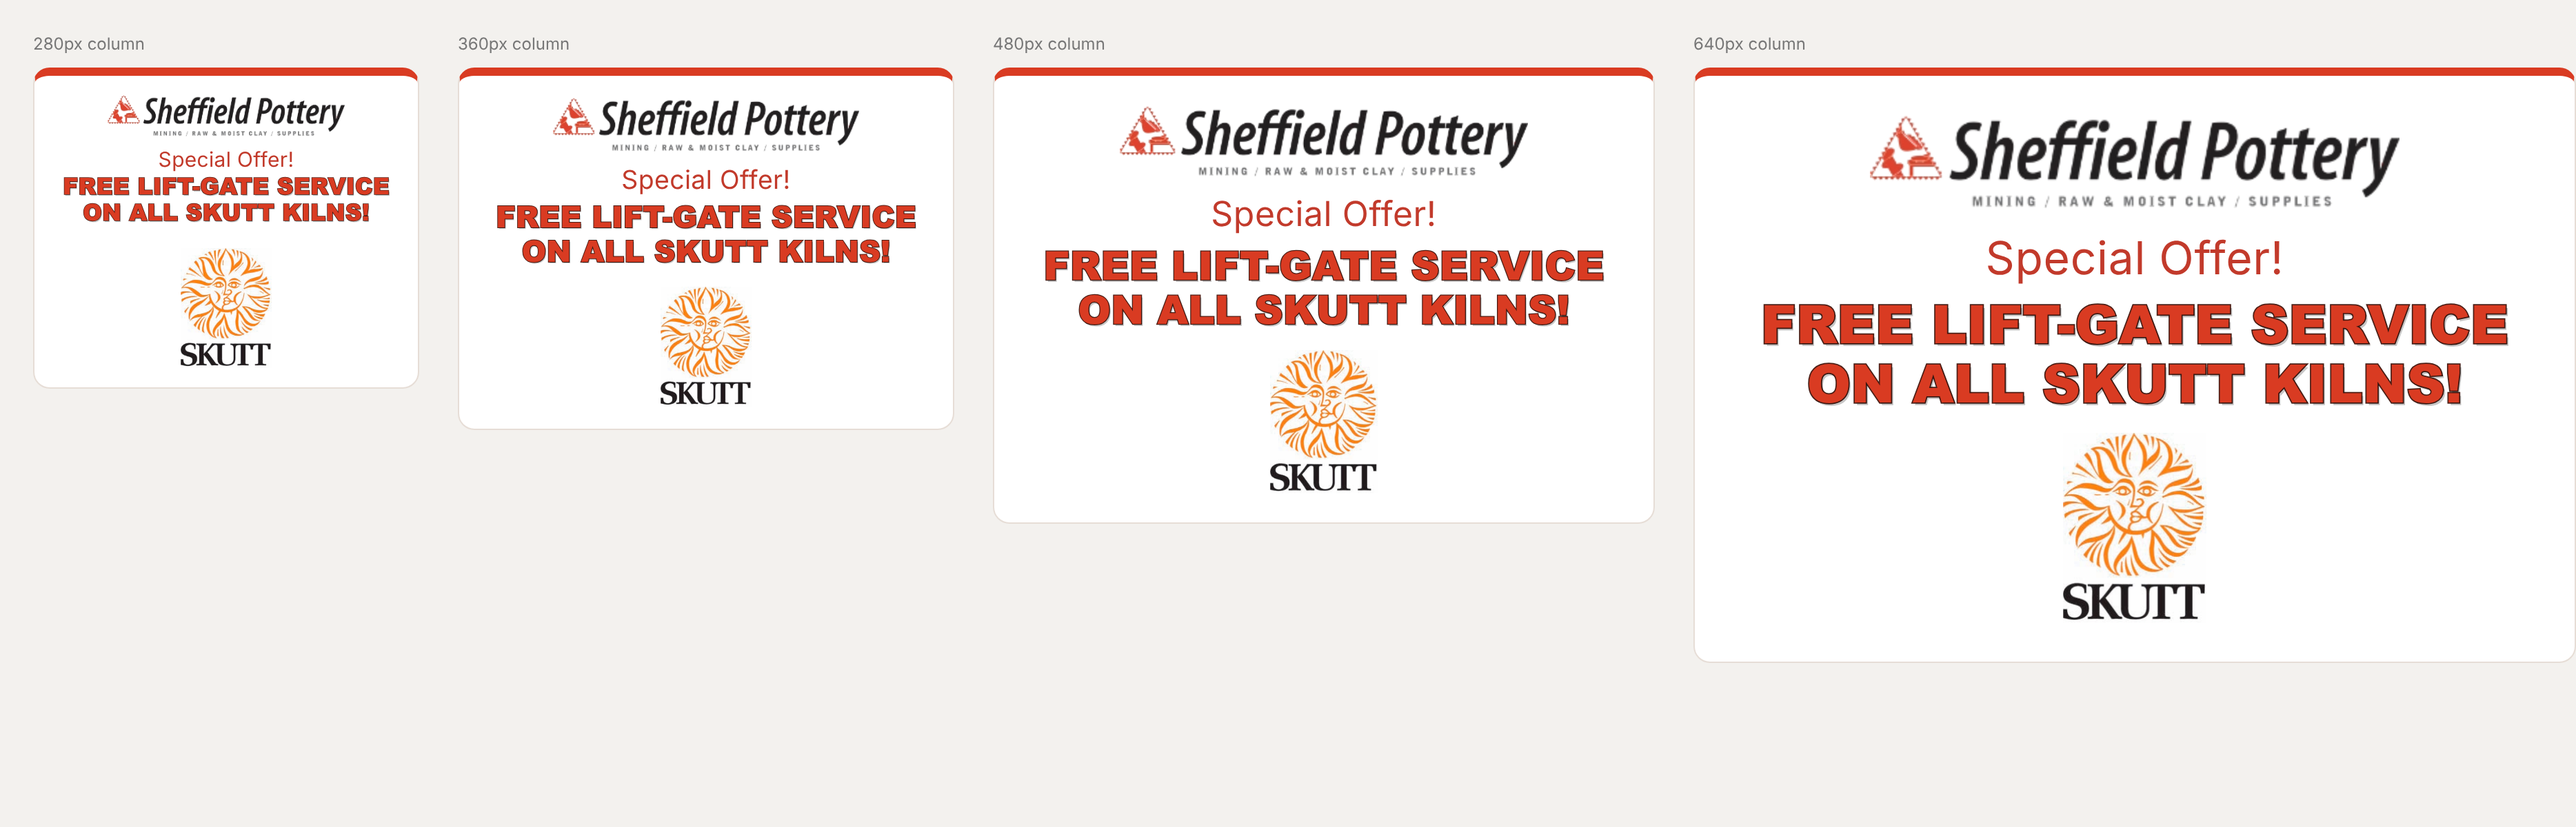
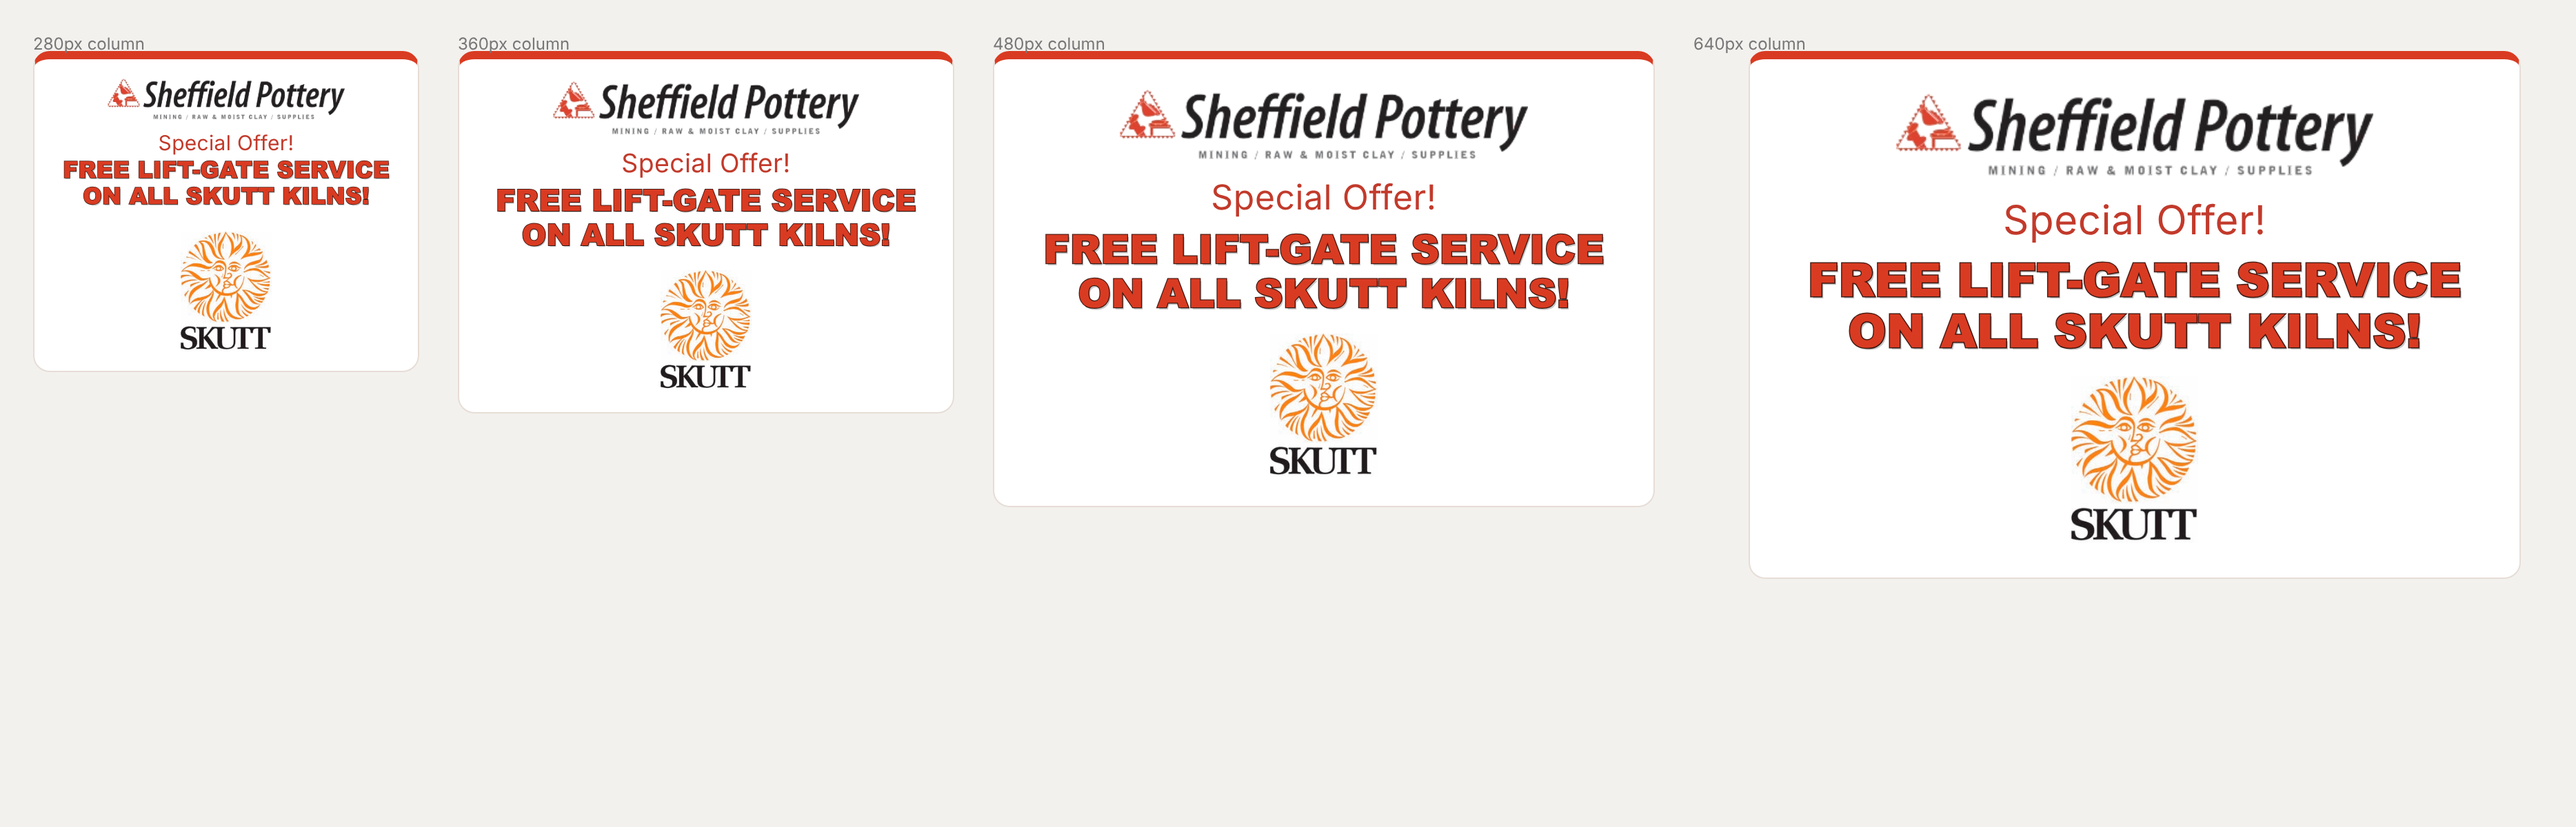
Make the lift-gate offer box valid inside any wrapper and link it to Skutt kilns
Use spans instead of div/p so it can sit inside existing <p> and <a>
wrappers in product descriptions, link the box to /collections/skutt-kilns
like the old graphic, cap it at 560px, and keep spaces between the text
pieces so stripped-HTML text (meta descriptions, feeds) reads cleanly.

Claude-Session: https://claude.ai/code/session_015Xa2d9vjjzMAh8d75TZMCL

Changed region(s): [[0.0, 0.0617, 1.0, 0.6167], [0.6831, 0.1233, 0.9936, 0.7708]]

diff --git a/snippets/skutt-free-liftgate-banner.html b/snippets/skutt-free-liftgate-banner.html
@@ -1,32 +1,16 @@
 <!--
   Sheffield Pottery: "Free lift-gate service on all Skutt kilns" offer box.
-  Scalable HTML replacement for skutt-kilns-sale-free-lift-gate.jpg.
+  Scalable HTML replacement for skutt-kilns-sale-free-lift-gate.jpg. This is the exact
+  markup used in the Skutt product descriptions.
 
-  Paste the whole block into a Shopify product description, page, or
-  Custom Liquid section using the editor's HTML ("<>") view.
+  Paste it into a Shopify product description, page, or Custom Liquid section using
+  the editor's HTML ("<>") view.
 
-  - Every style is inline, so theme CSS and the rich-text editor can't restyle it.
-  - Text sizes are tied to the width of the box itself (cqi units), so it scales the
-    same way in a narrow product column as it does full-width on a phone.
-    Older browsers fall back to the fixed px size written just before each clamp().
-  - To make it wider or narrower overall, change max-width on the first <div>.
+  - Built only from <a>/<span>/<img> with inline styles, so it is valid anywhere,
+    including inside a <p>, and theme CSS can't restyle it.
+  - Text sizes follow the width of the box itself (cqi units). Older browsers use the
+    fixed px size written just before each clamp().
+  - The whole box links to /collections/skutt-kilns. Change max-width on the <a> to
+    make it larger or smaller (currently 560px).
 -->
-<div style="container-type:inline-size;width:100%;max-width:640px;margin:24px auto;box-sizing:border-box;">
-  <div style="box-sizing:border-box;background:#ffffff;border:1px solid #e6ddd6;border-top:6px solid #d93b22;border-radius:12px;padding:20px 16px;padding:clamp(14px,4.5cqi,30px) clamp(12px,4.5cqi,30px);text-align:center;line-height:1.15;font-family:Arial,Helvetica,sans-serif;color:#2b2b2b;">
-
-    <img src="https://cdn.shopify.com/s/files/1/0677/5508/2050/files/logo.png?v=1679391841"
-         alt="Sheffield Pottery: Mining / Raw &amp; Moist Clay / Supplies"
-         width="384" height="67"
-         style="display:block;width:68%;max-width:384px;height:auto;margin:0 auto;border:0;">
-
-    <p style="margin:0.55em 0 0.2em;padding:0;font-family:'Trebuchet MS','Segoe UI',system-ui,-apple-system,Roboto,Arial,sans-serif;font-weight:400;font-style:normal;font-size:20px;font-size:clamp(15px,5.2cqi,33px);line-height:1.15;letter-spacing:0.01em;text-transform:none;color:#c23a2b;">Special Offer!</p>
-
-    <p style="margin:0;padding:0;font-family:'Arial Black',Gadget,system-ui,-apple-system,'Segoe UI',Roboto,Arial,sans-serif;font-weight:900;font-style:normal;font-size:22px;font-size:clamp(15px,6cqi,39px);line-height:1.12;letter-spacing:0;text-transform:uppercase;color:#d93b22;-webkit-text-stroke:0.045em #4a1e16;paint-order:stroke fill;text-shadow:0.04em 0.05em 0 rgba(0,0,0,0.22);">Free <span style="white-space:nowrap;">Lift-Gate</span> Service<br>on All Skutt Kilns!</p>
-
-    <img src="https://cdn.shopify.com/s/files/1/0677/5508/2050/files/skutt-kilns-web-logo.jpg?v=1680243671"
-         alt="Skutt Kilns"
-         width="207" height="273"
-         style="display:block;width:18%;min-width:66px;max-width:108px;height:auto;margin:0.9em auto 0;border:0;mix-blend-mode:multiply;">
-
-  </div>
-</div>
+<a href="/collections/skutt-kilns" style="display:block;container-type:inline-size;width:100%;max-width:560px;margin:12px auto 20px;padding:0;box-sizing:border-box;border:0;background:none;text-decoration:none;color:#2b2b2b;"><span style="display:block;box-sizing:border-box;background:#ffffff;border:1px solid #e6ddd6;border-top:6px solid #d93b22;border-radius:12px;padding:20px 16px;padding:clamp(14px,4.5cqi,30px) clamp(12px,4.5cqi,30px);text-align:center;line-height:1.15;font-family:Arial,Helvetica,sans-serif;font-weight:400;font-style:normal;letter-spacing:normal;text-transform:none;text-decoration:none;color:#2b2b2b;"><img src="https://cdn.shopify.com/s/files/1/0677/5508/2050/files/logo.png?v=1679391841" alt="Sheffield Pottery" width="384" height="67" style="display:block;width:68%;max-width:384px;height:auto;margin:0 auto;border:0;"> <span style="display:block;margin:0.55em 0 0.2em;padding:0;font-family:'Trebuchet MS','Segoe UI',system-ui,-apple-system,Roboto,Arial,sans-serif;font-weight:400;font-style:normal;font-size:20px;font-size:clamp(15px,5.2cqi,33px);line-height:1.15;letter-spacing:0.01em;text-transform:none;color:#c23a2b;">Special Offer!</span> <span style="display:block;margin:0;padding:0;font-family:'Arial Black',Gadget,system-ui,-apple-system,'Segoe UI',Roboto,Arial,sans-serif;font-weight:900;font-style:normal;font-size:22px;font-size:clamp(15px,6cqi,39px);line-height:1.12;letter-spacing:0;text-transform:uppercase;color:#d93b22;-webkit-text-stroke:0.045em #4a1e16;paint-order:stroke fill;text-shadow:0.04em 0.05em 0 rgba(0,0,0,0.22);">Free <span style="white-space:nowrap;">Lift-Gate</span> Service<br> on All Skutt Kilns!</span> <img src="https://cdn.shopify.com/s/files/1/0677/5508/2050/files/skutt-kilns-web-logo.jpg?v=1680243671" alt="Skutt Kilns" width="207" height="273" style="display:block;width:18%;min-width:66px;max-width:108px;height:auto;margin:0.9em auto 0;border:0;mix-blend-mode:multiply;"></span></a>

diff --git a/README.md b/README.md
@@ -80,4 +80,6 @@ Requires `openpyxl` (`pip install openpyxl`).
   All styles are inline, the text is real (searchable, crisp at any size), and
   it scales with the width of whatever column it's placed in. The two logos are
   still images, loaded from the store's Files.
-  `snippets/skutt-free-liftgate-banner-preview.png` shows it at 280–640px.
+  It is the exact markup used in the Skutt product descriptions and links to
+  `/collections/skutt-kilns`. `snippets/skutt-free-liftgate-banner-preview.png`
+  shows it in 280–640px columns.
